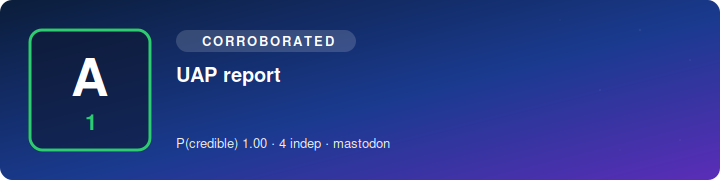
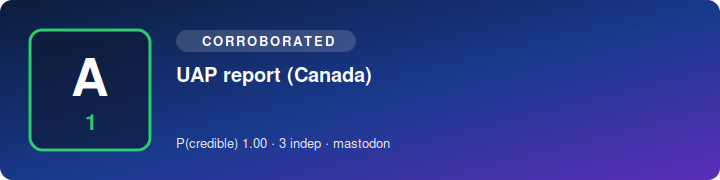
SITREP 2026-08-03 11:00 UTC

Changed region(s): [[0.3972, 0.3611, 0.5194, 0.4722], [0.3667, 0.75, 0.3972, 0.8333]]

diff --git a/index.html b/index.html
@@ -1,1 +1,1 @@
-<!doctype html><meta charset=utf-8><title>Science Bob News — SITREP</title><style>body{font:16px/1.5 system-ui,sans-serif;max-width:760px;margin:2rem auto;padding:0 1rem;color:#111}h1{font-size:1.5rem}h2{margin-top:1.6rem;border-bottom:1px solid #ddd;padding-bottom:.2rem}ul{list-style:none;padding:0}li{margin:.9rem 0}.hl{font-weight:600}.meta{color:#555;font-size:.85rem}.src{font-size:.85rem}.vid{font-size:.85rem;margin-top:.15rem}.card{display:block;max-width:100%;height:auto;border-radius:8px;margin:.4rem 0 .5rem}.upd{background:#fde68a;padding:0 .3rem;border-radius:.2rem;font-size:.75rem}.sub{color:#777;font-size:.85rem}footer{color:#777;font-size:.8rem;margin-top:2rem;border-top:1px solid #ddd;padding-top:.6rem}</style><h1>🛸 Science Bob News</h1><div class="sub">UAP / UFO / USO SITREP · updated 2026-08-03 10:50 UTC · automated</div><h2>Corroborated</h2><ul><li><img class="card" src="https://n4hy.github.io/sciencebobnews-site/card_c_1.svg" alt="" width="720" height="180"><div class="hl">UAP report (Canada)</div><div class="meta">reliability <b>A1</b> · P(credible)=1.0 · 3 independent source(s) · mastodon</div><div class="src"><a href="https://mastodon.au/@vibewire/117027404399127988">@vibewire@mastodon.au</a> · <a href="https://mstdn.ca/@theyycmonk/117029061136561360">@theyycmonk@mstdn.ca</a></div></li><li><img class="card" src="https://n4hy.github.io/sciencebobnews-site/card_c_2.svg" alt="" width="720" height="180"><div class="hl">UAP report</div><div class="meta">reliability <b>A1</b> · P(credible)=1.0 · 4 independent source(s) · mastodon</div><div class="src"><a href="https://zirk.us/@Doomscroll/117028230320711419">@Doomscroll@zirk.us</a> · <a href="https://infosec.exchange/@n_dimension/117028016111436423">@n_dimension@infosec.exchange</a></div></li></ul><h2>Developing / unconfirmed</h2><ul><li><img class="card" src="https://n4hy.github.io/sciencebobnews-site/card_d_1.svg" alt="" width="720" height="180"><div class="hl">UAP report</div><div class="meta">reliability <b>A1</b> · P(credible)=1.0 · 1 independent source(s) · mastodon</div><div class="src"><a href="https://hachyderm.io/@pragmaticmarg/117010094817149557">@pragmaticmarg@hachyderm.io</a></div></li><li><img class="card" src="https://n4hy.github.io/sciencebobnews-site/card_d_2.svg" alt="" width="720" height="180"><div class="hl">UAP report</div><div class="meta">reliability <b>A1</b> · P(credible)=1.0 · 1 independent source(s) · mastodon</div><div class="src"><a href="https://mastodon.social/@veryexcitingtime/117028427311169939">@veryexcitingtime</a></div></li><li><img class="card" src="https://n4hy.github.io/sciencebobnews-site/card_d_3.svg" alt="" width="720" height="180"><div class="hl">UAP report (Early)</div><div class="meta">reliability <b>A1</b> · P(credible)=1.0 · 1 independent source(s) · rumble</div><div class="src"><a href="https://www.youtube.com/watch?v=IyTeV6kko5A">@podcast</a></div><div class="vid">📹 <a href="https://www.youtube.com/watch?v=IyTeV6kko5A">video</a></div></li><li><img class="card" src="https://n4hy.github.io/sciencebobnews-site/card_d_4.svg" alt="" width="720" height="180"><div class="hl">UAP report (McMinnville)</div><div class="meta">reliability <b>A1</b> · P(credible)=1.0 · 1 independent source(s) · rumble</div><div class="src"><a href="https://www.youtube.com/watch?v=7OT6uJ0yzVY">@podcast</a></div><div class="vid">📹 <a href="https://www.youtube.com/watch?v=7OT6uJ0yzVY">video</a></div></li><li><img class="card" src="https://n4hy.github.io/sciencebobnews-site/card_d_5.svg" alt="" width="720" height="180"><div class="hl">UAP whistleblower testimony reported (American)</div><div class="meta">reliability <b>A1</b> · P(credible)=1.0 · 1 independent source(s) · rumble</div><div class="src"><a href="https://www.youtube.com/watch?v=LPtMaGpuK-M">@podcast</a></div><div class="vid">📹 <a href="https://www.youtube.com/watch?v=LPtMaGpuK-M">video</a></div></li></ul><footer><b>Powered by Science Bob News.</b> Free to use with credit (see LICENSE). Headlines are factual restatements in the engine's own words; click sources for originals. Single-origin reposts collapse to one source; prosaic candidates flagged where offered.</footer>
+<!doctype html><meta charset=utf-8><title>Science Bob News — SITREP</title><style>body{font:16px/1.5 system-ui,sans-serif;max-width:760px;margin:2rem auto;padding:0 1rem;color:#111}h1{font-size:1.5rem}h2{margin-top:1.6rem;border-bottom:1px solid #ddd;padding-bottom:.2rem}ul{list-style:none;padding:0}li{margin:.9rem 0}.hl{font-weight:600}.meta{color:#555;font-size:.85rem}.src{font-size:.85rem}.vid{font-size:.85rem;margin-top:.15rem}.card{display:block;max-width:100%;height:auto;border-radius:8px;margin:.4rem 0 .5rem}.upd{background:#fde68a;padding:0 .3rem;border-radius:.2rem;font-size:.75rem}.sub{color:#777;font-size:.85rem}footer{color:#777;font-size:.8rem;margin-top:2rem;border-top:1px solid #ddd;padding-top:.6rem}</style><h1>🛸 Science Bob News</h1><div class="sub">UAP / UFO / USO SITREP · updated 2026-08-03 11:00 UTC · automated</div><h2>Corroborated</h2><ul><li><img class="card" src="https://n4hy.github.io/sciencebobnews-site/card_c_1.svg" alt="" width="720" height="180"><div class="hl">UAP report</div><div class="meta">reliability <b>A1</b> · P(credible)=1.0 · 2 independent source(s) · mastodon</div><div class="src"><a href="https://zirk.us/@Doomscroll/117028230320711419">@Doomscroll@zirk.us</a> · <a href="https://infosec.exchange/@n_dimension/117028016111436423">@n_dimension@infosec.exchange</a></div></li><li><img class="card" src="https://n4hy.github.io/sciencebobnews-site/card_c_2.svg" alt="" width="720" height="180"><div class="hl">UAP report (Canada)</div><div class="meta">reliability <b>A1</b> · P(credible)=1.0 · 3 independent source(s) · mastodon</div><div class="src"><a href="https://mastodon.au/@vibewire/117027404399127988">@vibewire@mastodon.au</a> · <a href="https://mstdn.ca/@theyycmonk/117029061136561360">@theyycmonk@mstdn.ca</a></div></li></ul><h2>Developing / unconfirmed</h2><ul><li><img class="card" src="https://n4hy.github.io/sciencebobnews-site/card_d_1.svg" alt="" width="720" height="180"><div class="hl">UAP report</div><div class="meta">reliability <b>A1</b> · P(credible)=1.0 · 1 independent source(s) · mastodon</div><div class="src"><a href="https://hachyderm.io/@pragmaticmarg/117010094817149557">@pragmaticmarg@hachyderm.io</a></div></li><li><img class="card" src="https://n4hy.github.io/sciencebobnews-site/card_d_2.svg" alt="" width="720" height="180"><div class="hl">UAP report</div><div class="meta">reliability <b>A1</b> · P(credible)=1.0 · 1 independent source(s) · mastodon</div><div class="src"><a href="https://mastodon.social/@veryexcitingtime/117028427311169939">@veryexcitingtime</a></div></li><li><img class="card" src="https://n4hy.github.io/sciencebobnews-site/card_d_3.svg" alt="" width="720" height="180"><div class="hl">UAP report (Early)</div><div class="meta">reliability <b>A1</b> · P(credible)=1.0 · 1 independent source(s) · rumble</div><div class="src"><a href="https://www.youtube.com/watch?v=IyTeV6kko5A">@podcast</a></div><div class="vid">📹 <a href="https://www.youtube.com/watch?v=IyTeV6kko5A">video</a></div></li><li><img class="card" src="https://n4hy.github.io/sciencebobnews-site/card_d_4.svg" alt="" width="720" height="180"><div class="hl">UAP report (McMinnville)</div><div class="meta">reliability <b>A1</b> · P(credible)=1.0 · 1 independent source(s) · rumble</div><div class="src"><a href="https://www.youtube.com/watch?v=7OT6uJ0yzVY">@podcast</a></div><div class="vid">📹 <a href="https://www.youtube.com/watch?v=7OT6uJ0yzVY">video</a></div></li><li><img class="card" src="https://n4hy.github.io/sciencebobnews-site/card_d_5.svg" alt="" width="720" height="180"><div class="hl">UAP whistleblower testimony reported (American)</div><div class="meta">reliability <b>A1</b> · P(credible)=1.0 · 1 independent source(s) · rumble</div><div class="src"><a href="https://www.youtube.com/watch?v=LPtMaGpuK-M">@podcast</a></div><div class="vid">📹 <a href="https://www.youtube.com/watch?v=LPtMaGpuK-M">video</a></div></li></ul><footer><b>Powered by Science Bob News.</b> Free to use with credit (see LICENSE). Headlines are factual restatements in the engine's own words; click sources for originals. Single-origin reposts collapse to one source; prosaic candidates flagged where offered.</footer>

diff --git a/sitrep.md b/sitrep.md
@@ -1,17 +1,17 @@
 # 🛸 Science Bob News — UAP / UFO / USO SITREP
-*Updated 2026-08-03 10:50 UTC · auto-generated · sources credited & linked · reliability ratings are automated, not editorial*
+*Updated 2026-08-03 11:00 UTC · auto-generated · sources credited & linked · reliability ratings are automated, not editorial*
 
 ## Corroborated
 
-![UAP report (Canada)](https://n4hy.github.io/sciencebobnews-site/card_c_1.svg)
-1. **UAP report (Canada)**  
+![UAP report](https://n4hy.github.io/sciencebobnews-site/card_c_1.svg)
+1. **UAP report**  
+   reliability **A1** · P(credible)=1.0 · 2 independent source(s) · mastodon  
+   [@Doomscroll@zirk.us](https://zirk.us/@Doomscroll/117028230320711419) · [@n_dimension@infosec.exchange](https://infosec.exchange/@n_dimension/117028016111436423)
+
+![UAP report (Canada)](https://n4hy.github.io/sciencebobnews-site/card_c_2.svg)
+2. **UAP report (Canada)**  
    reliability **A1** · P(credible)=1.0 · 3 independent source(s) · mastodon  
    [@vibewire@mastodon.au](https://mastodon.au/@vibewire/117027404399127988) · [@theyycmonk@mstdn.ca](https://mstdn.ca/@theyycmonk/117029061136561360)
-
-![UAP report](https://n4hy.github.io/sciencebobnews-site/card_c_2.svg)
-2. **UAP report**  
-   reliability **A1** · P(credible)=1.0 · 4 independent source(s) · mastodon  
-   [@Doomscroll@zirk.us](https://zirk.us/@Doomscroll/117028230320711419) · [@n_dimension@infosec.exchange](https://infosec.exchange/@n_dimension/117028016111436423)
 
 ## Developing / unconfirmed
 
